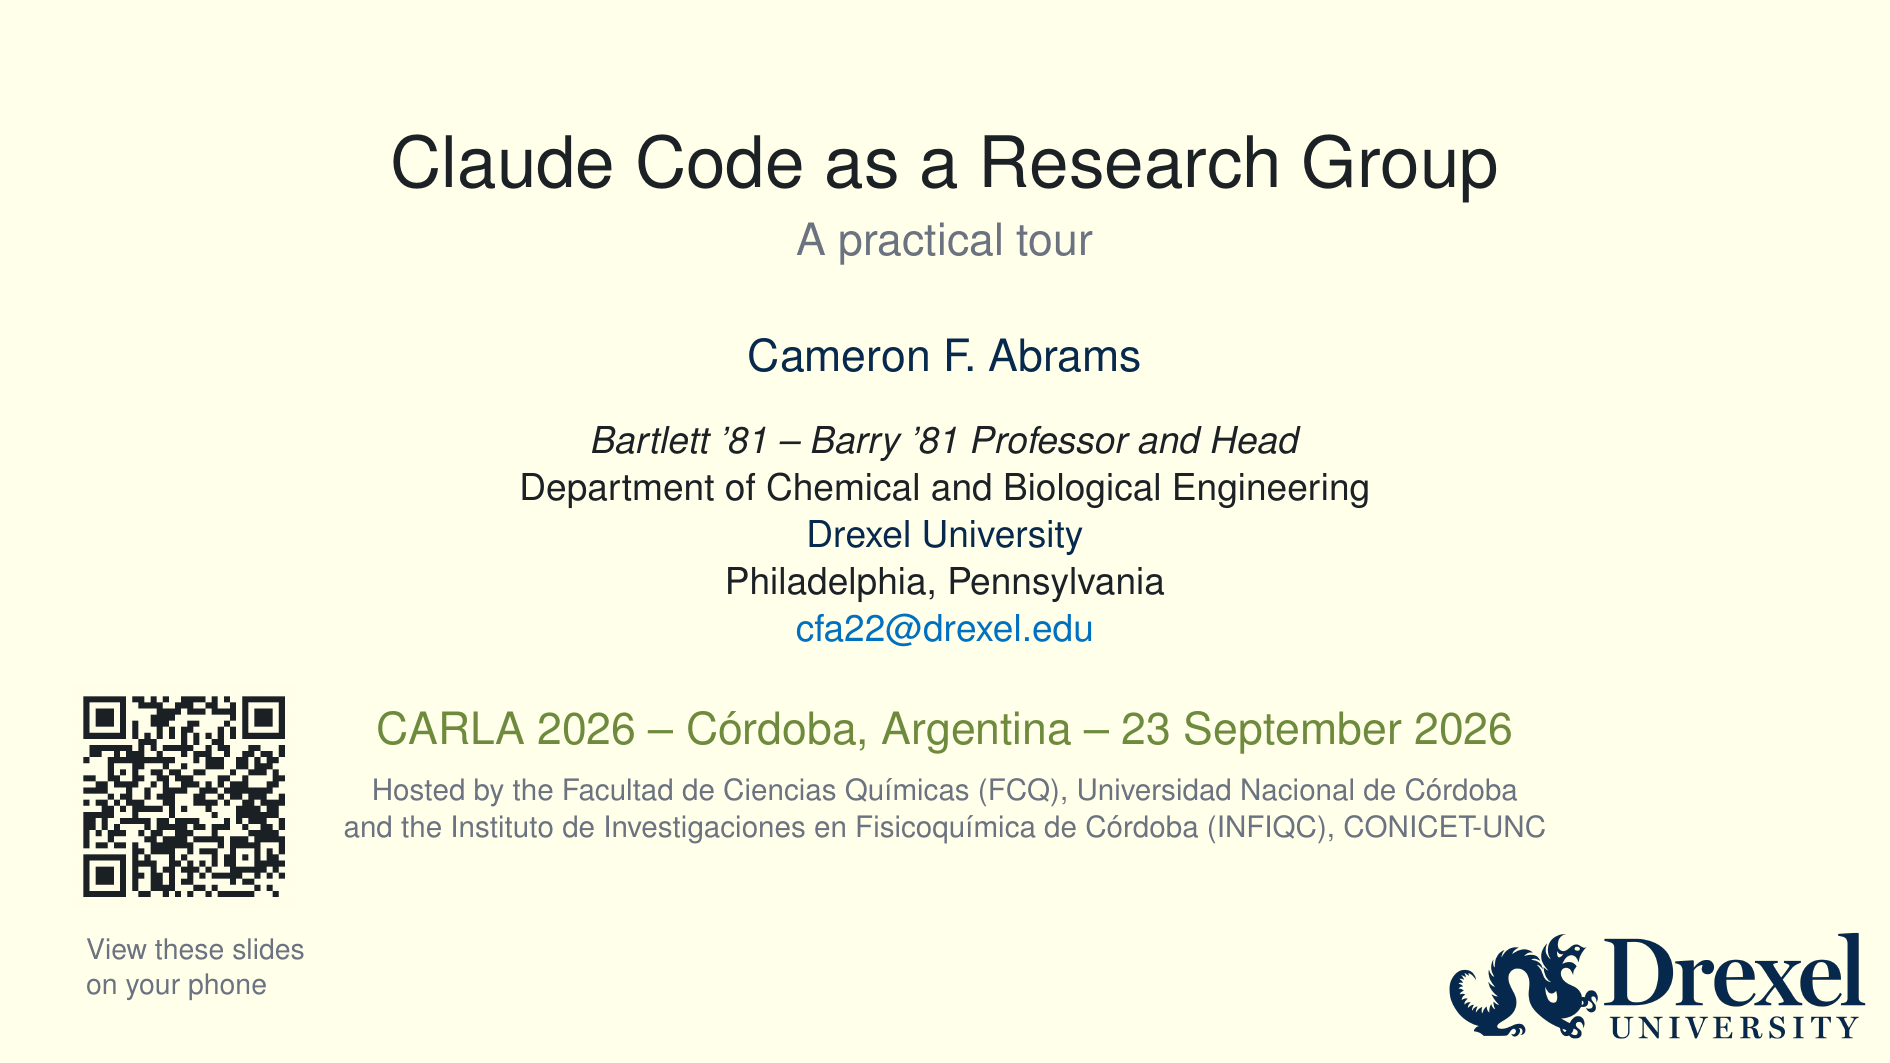
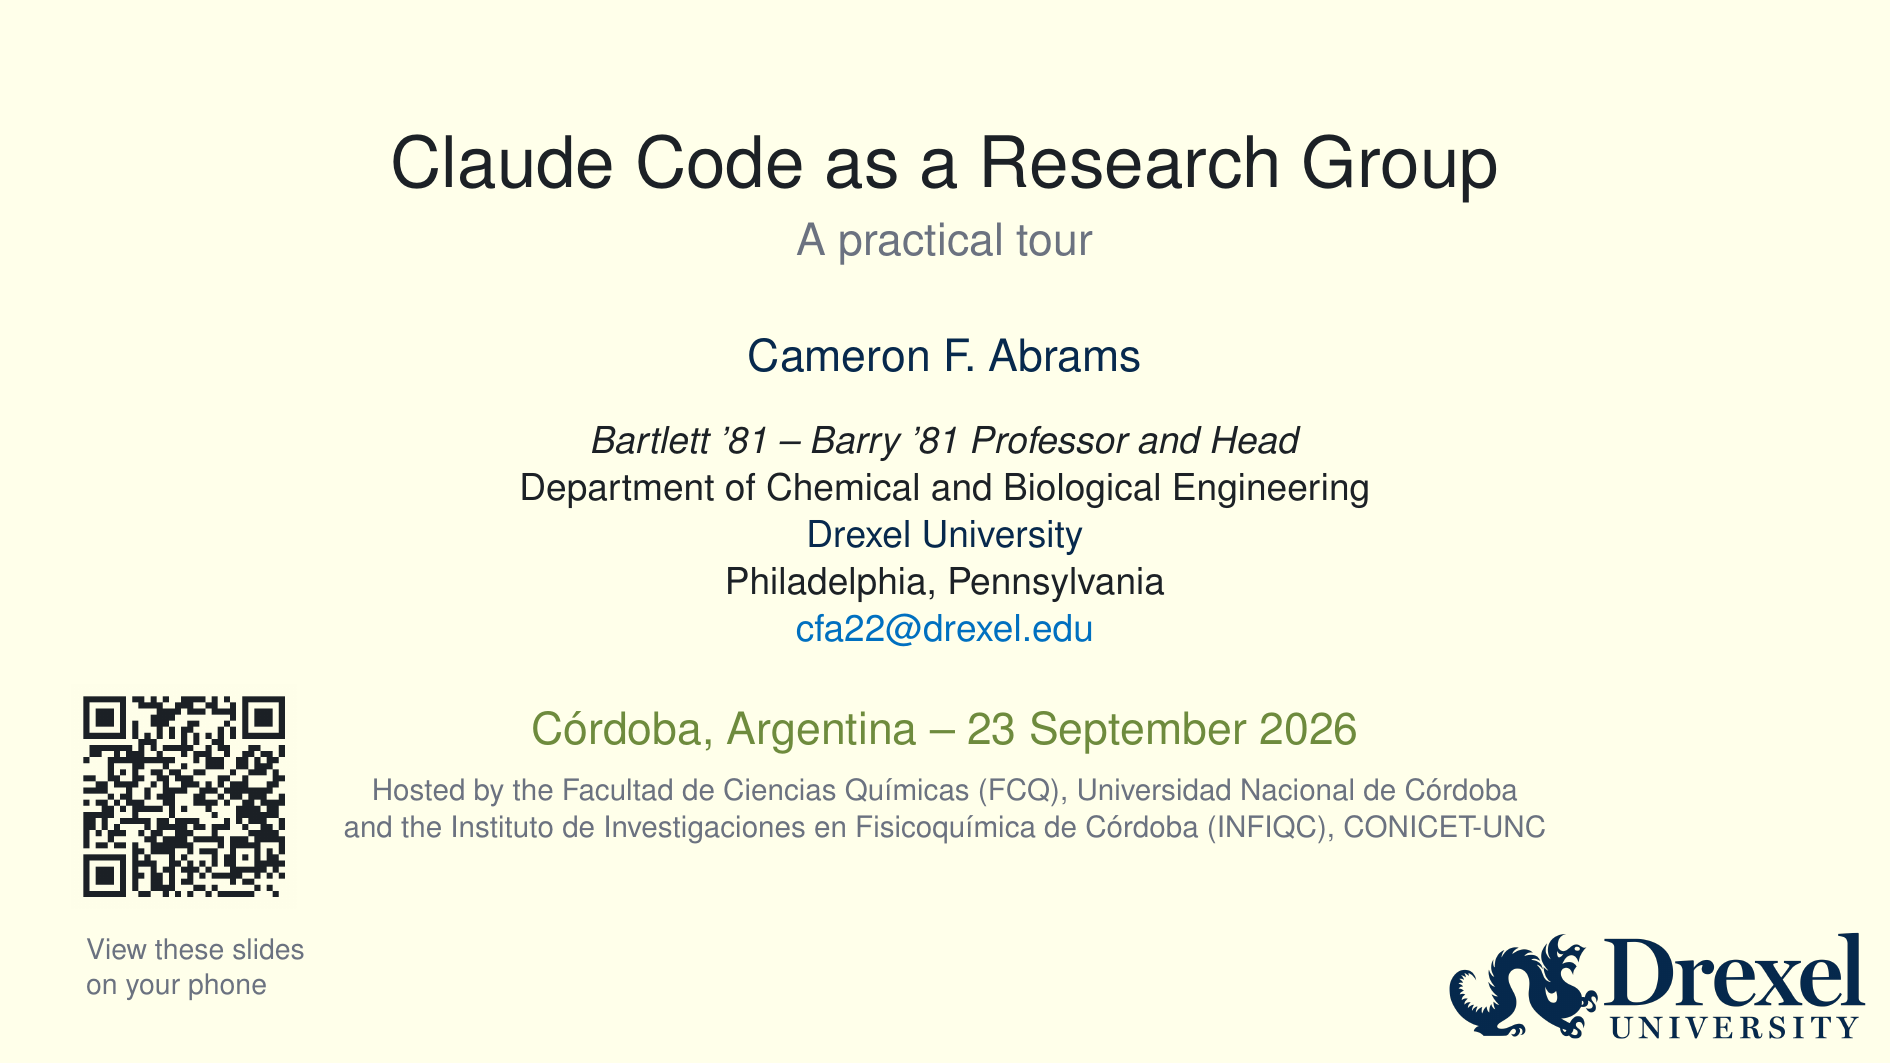
Not a CARLA session: Cordoba and the hosts, on the slide and the page

Changed region(s): [[0.1873, 0.6519, 0.8116, 0.714]]

diff --git a/index.html b/index.html
@@ -3,11 +3,11 @@
 <head>
 <meta charset="utf-8">
 <meta name="viewport" content="width=device-width, initial-scale=1, viewport-fit=cover">
-<title>Claude Code as a Research Group — CARLA 2026</title>
-<meta name="description" content="Cameron F. Abrams, CARLA 2026, Córdoba: how one researcher's computational work is run by a fleet of Claude Code sessions. 32 slides plus 6 backup slides.">
+<title>Claude Code as a Research Group — Córdoba 2026</title>
+<meta name="description" content="Cameron F. Abrams, Córdoba, 23 September 2026: how one researcher's computational work is run by a fleet of Claude Code sessions. 35 slides plus 6 backup slides.">
 <meta name="color-scheme" content="dark light">
 <meta property="og:title" content="Claude Code as a Research Group">
-<meta property="og:description" content="CARLA 2026, Córdoba — 23 September 2026. Page through the slides.">
+<meta property="og:description" content="Córdoba, Argentina — 23 September 2026. Page through the slides.">
 <meta property="og:image" content="slides/01.png">
 <style>img{max-width:100%}[hidden]{display:none!important}</style>
 </head>
@@ -49,7 +49,7 @@ button:focus-visible{outline:2px solid var(--accent); outline-offset:2px}
 </style>
 
 <div class="app">
-  <p class="head" id="head">Claude Code as a Research Group · CARLA 2026</p>
+  <p class="head" id="head">Claude Code as a Research Group · Córdoba 2026</p>
   <div class="stage">
     <img id="slide" src="slides/01.png" alt="Slide 1" fetchpriority="high">
     <button class="zone l" id="zl" type="button" aria-label="Previous slide"></button>

diff --git a/README.md b/README.md
@@ -1,6 +1,7 @@
-# Claude Code as a Research Group — CARLA 2026
+# Claude Code as a Research Group — Córdoba, 2026
 
-Slides from an informal talk given alongside CARLA 2026 in Córdoba, Argentina, on 23 September 2026, by
+Slides from an informal talk in Córdoba, Argentina, on 23 September 2026, hosted by the Facultad de Ciencias
+Químicas (UNC) and INFIQC (CONICET-UNC) — not part of the CARLA programme — by
 [Cameron F. Abrams](https://github.com/cameronabrams) (Drexel University): how one researcher's computational
 work — molecular simulation codes, cluster runs, a paper library, a lab notebook — came to be run by a fleet of
 long-lived Claude Code sessions, and what five weeks of it actually taught him.
@@ -8,7 +9,7 @@ long-lived Claude Code sessions, and what five weeks of it actually taught him.
 **Read the slides:** https://cameronabrams.github.io/carla-2026/ — page through them on a phone, or
 [download the PDF](https://cameronabrams.github.io/carla-2026/carla-2026-abrams.pdf).
 
-32 slides and 6 backup slides. The tools and skills the talk describes are public and free to take:
+35 slides and 6 backup slides. The tools and skills the talk describes are public and free to take:
 [cameronabrams/fleet](https://github.com/cameronabrams/fleet) ·
 [docs](https://fleet-of-agents.readthedocs.io).
 
